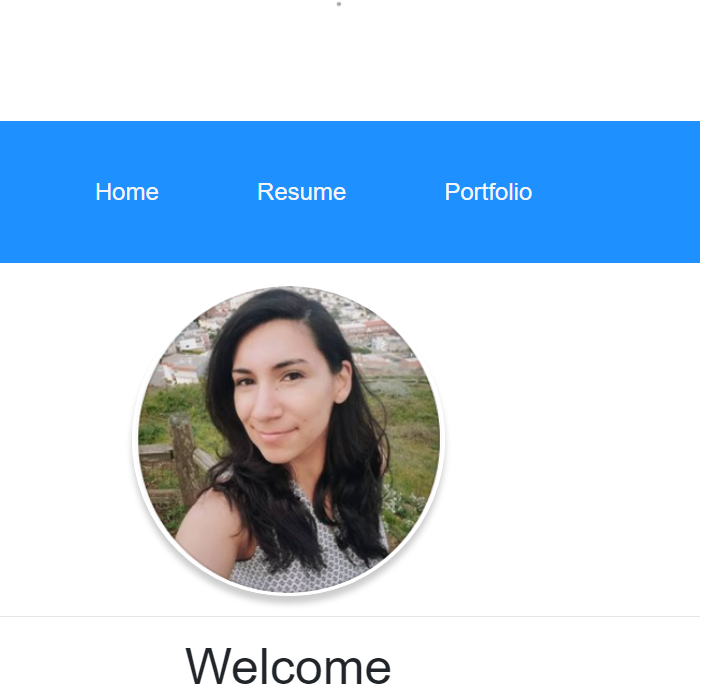
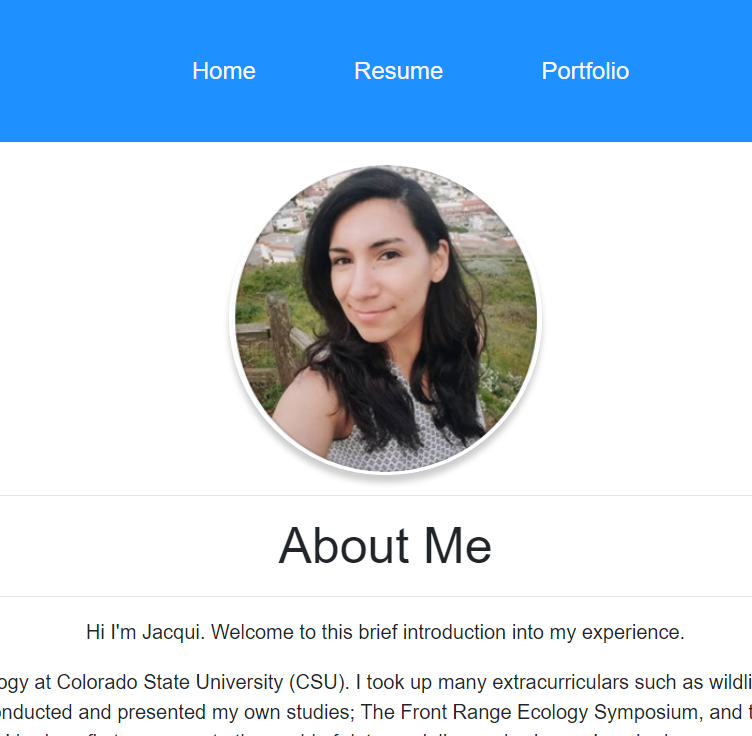
addition to readme and edit of images

diff --git a/README.md b/README.md
@@ -37,6 +37,8 @@ Website Mockups
 Wireframe 1 Landing Page
   ![HomePage](wireframe/home.png)
 
+The primary landing page for the site. Here is a basic bio of my history and experience. This was create to introduce users that visit the page into 
+basic knowledge and make a good place for additional links to be selected to the resume and portfolio pages.
 
 Wireframe 2 Resume Page
   ![ResumePage](wireframe/resume.png)
@@ -90,13 +92,18 @@ Home Page:
 - Try scolling up and down to review the data.
 - Try pressing the footer links to ensure they lead to the proper forms.
 
+Home Page
 ![HomePage](wireframe/home_page.png)
 
+Footer Links
 ![HomePage](wireframe/footerlinks.png)
 
 A user can navigate to the resume page which contains the resume document by:
 Resume Page:
+
 - Go to the "Resume" page by pressing Nav link
+
+Navigation Top of Page
 
 ![HomePage](wireframe/tofpage.png)
 
